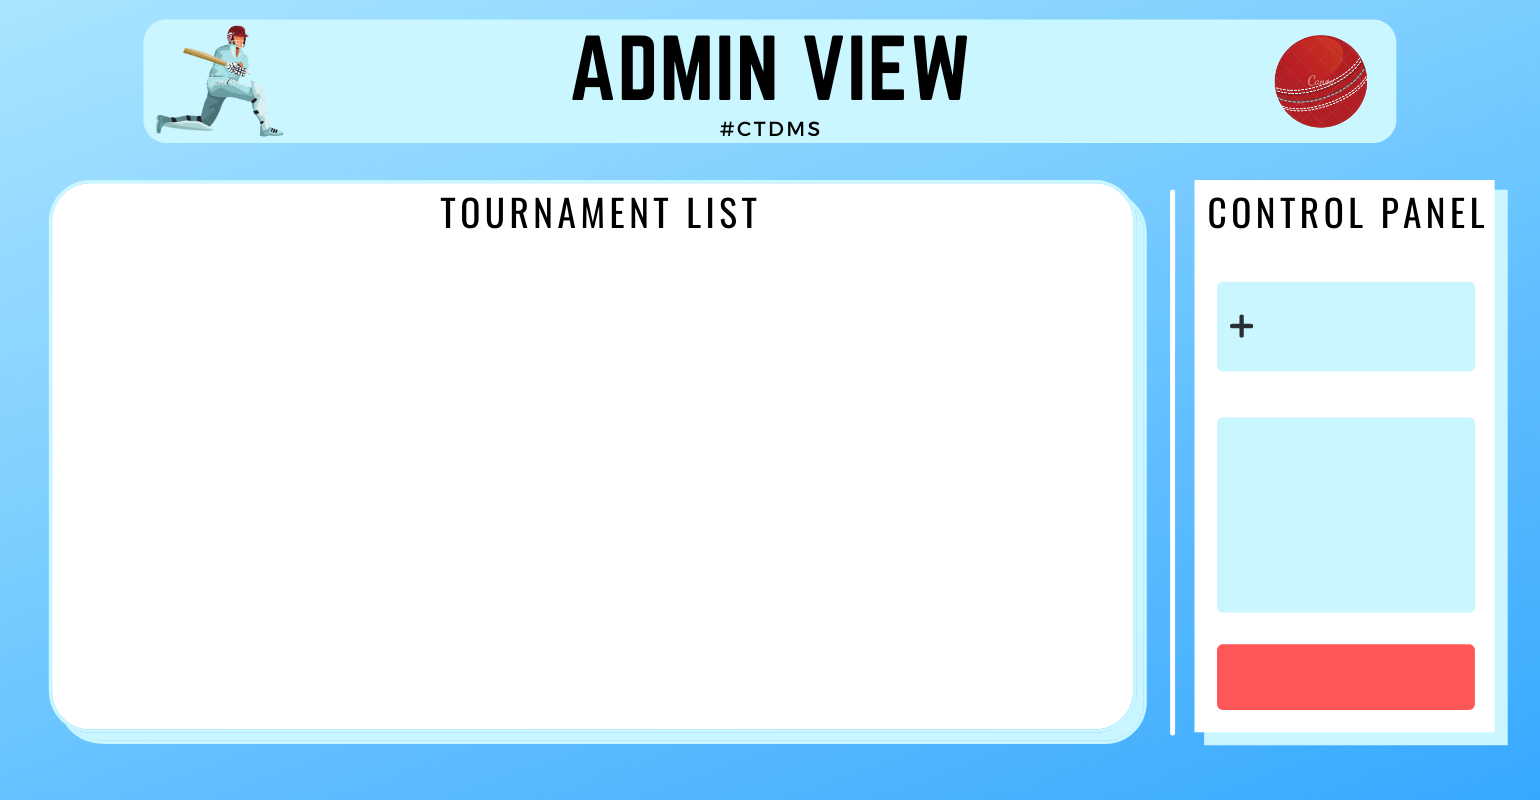
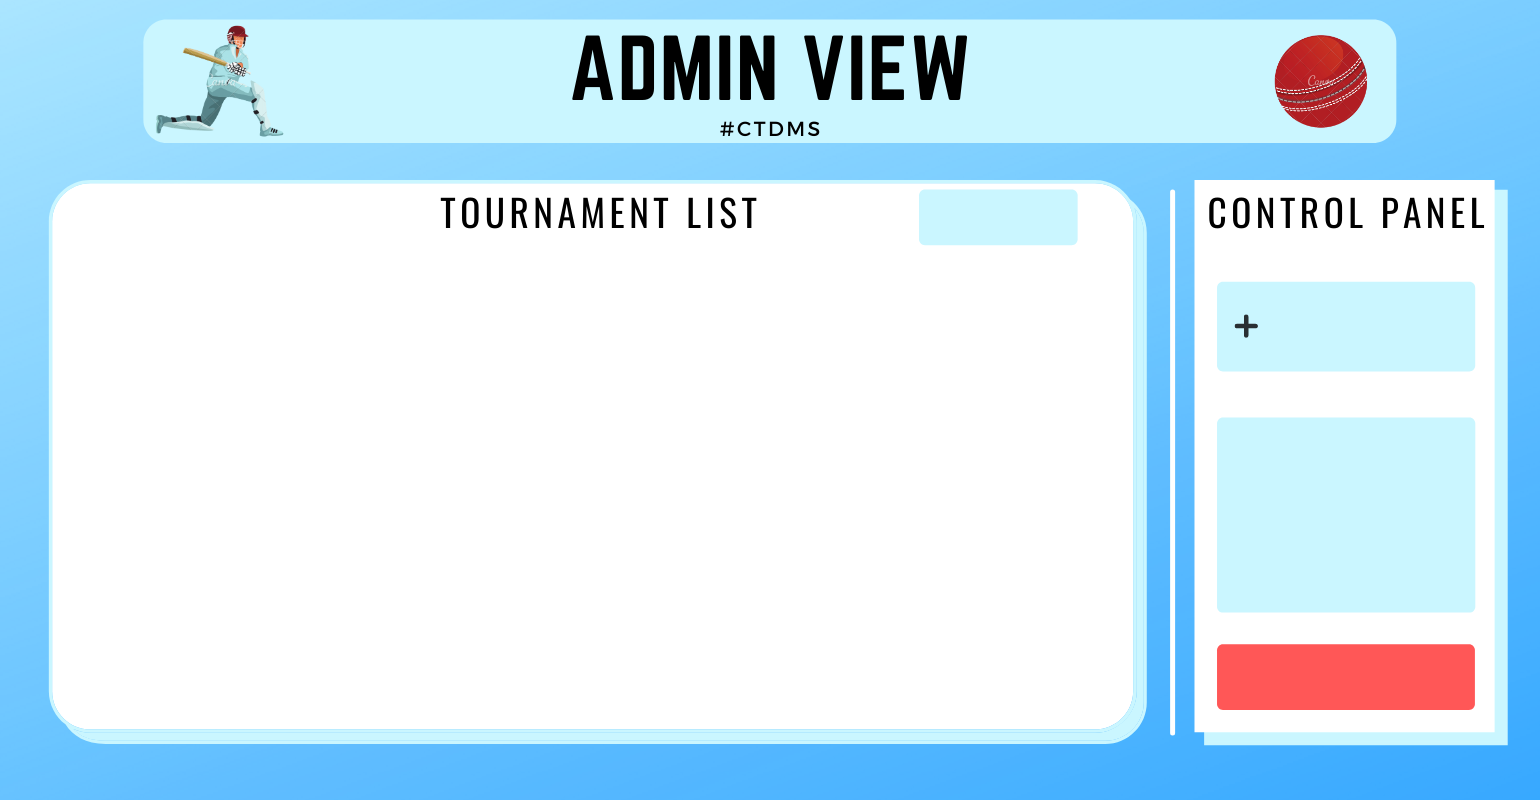
final Project

Changed region(s): [[0.5922, 0.2188, 0.7169, 0.3125]]

diff --git a/frontend/teamView.py b/frontend/teamView.py
@@ -8,13 +8,39 @@ initialize()
 from connect import *
 import sys
 
-
+count = 0
+playerList = []
 
 # def main5():
 #   r = Tk(className=" CCTDMS Team View")
 #   app=TeamView(r)
 
 class TeamView:
+    def refresh(self):
+        global count
+        global playerList
+        print(count,len(self.teamPlayer))
+        self.teamPlayer = getTeamPlayers(self.team_Id)
+        print(count,len(self.teamPlayer))
+        for i in range(len(self.teamPlayer)):
+            if self.teamPlayer[i][0] not in playerList:
+                row1 = ttk.Label(self.scrollable_frame1, width=120,
+                            background="#d9d9d9")
+                row1.pack(pady=3,ipady=10)
+                name = Label(row1, width=20, height=1, background="#d9d9d9",
+                            text=self.teamPlayer[i][1], font=('Yu Gothic', 14, 'bold'))
+                name.place(x=10, y=6)
+                type = Label(row1, width=11, height=1, background="#d9d9d9",
+                            text=self.teamPlayer[i][2], font=('Yu Gothic', 14, 'bold'))
+                type.place(x=320, y=6)
+                id = Label(row1, width=20, height=1, background="#d9d9d9", text=str(
+                    self.teamPlayer[i][0]), font=('Yu Gothic', 14, 'bold'))
+                id.place(x=445, y=6)
+                count += 1
+                print(self.teamPlayer[i][0])
+                playerList.append(self.teamPlayer[i][0])
+            print(playerList)
+
     def viewResults(self):
         self.r6 = Toplevel(self.master)
         self.app6 = ViewResult(self.r6, self.team_Id)
@@ -34,6 +60,9 @@ class TeamView:
         self.master.destroy()
 
     def __init__(self, master, teamId):
+        global count
+        global playerList
+        print(playerList)
         self.master = master
         self.width = self.master.winfo_screenwidth()
         self.height = self.master.winfo_screenheight()
@@ -108,9 +137,9 @@ class TeamView:
         self.teamMatches = getMatchesForTeam(int(self.team_Id))
 
         for i in range(len(self.teamMatches)):
-            row = Label(self.scrollable_frame, width=99,
-                        height=3, background="#d9d9d9")
-            row.pack(pady=3)
+            row = ttk.Label(self.scrollable_frame, width=199,
+                        background="#d9d9d9")
+            row.pack(pady=3,ipady=10)
             radio = Radiobutton(row, background="#d9d9d9")
             radio.place(x=15, y=10)
 
@@ -131,6 +160,7 @@ class TeamView:
             venue = Label(row, width=20, height=1, background="#d9d9d9", text=self.teamMatches[i][4],
                           font=('Yu Gothic', 14, 'bold'))
             venue.place(x=440, y=6)
+            count  += 1
 
         self.container.place(x=46, y=300)
         self.canvas2.pack(side="left", fill="both", expand=True)
@@ -192,9 +222,9 @@ class TeamView:
         self.teamPlayer = getTeamPlayers(self.team_Id)
 
         for i in range(len(self.teamPlayer)):
-            row1 = Label(self.scrollable_frame1, width=90,
-                         height=3, background="#d9d9d9")
-            row1.pack(pady=3)
+            row1 = ttk.Label(self.scrollable_frame1, width=120,
+                         background="#d9d9d9")
+            row1.pack(pady=3,ipady=10)
             name = Label(row1, width=20, height=1, background="#d9d9d9",
                          text=self.teamPlayer[i][1], font=('Yu Gothic', 14, 'bold'))
             name.place(x=10, y=6)
@@ -204,6 +234,9 @@ class TeamView:
             id = Label(row1, width=20, height=1, background="#d9d9d9", text=str(
                 self.teamPlayer[i][0]), font=('Yu Gothic', 14, 'bold'))
             id.place(x=445, y=6)
+            playerList.append(self.teamPlayer[i][0])
+
+        print(playerList)
 
         self.container1.place(x=824, y=300)
         self.canvas1.pack(side="left", fill="both", expand=True)
@@ -227,13 +260,16 @@ class TeamView:
                                   foreground="white", command=self.ptsTable, wraplength=100)
         self.ptsTableBtn.place(x=1405, y=720)
 
+        self.refBtn = Button(self.master, width=7, background='#f4a290', relief='flat', text='Refresh', font=('Yu Gothic', 17, 'bold'),
+                                  foreground="white", command=self.refresh)
+        self.refBtn.place(x=1320,y=183)
+
         self.label1 = LabelFrame(
             self.master, text="Enter Tournament Id", background="#f4a290", foreground="white")
         self.label1.place(x=1220, y=720, width=180, height=60)
         self.idEntry = Entry(self.label1, font=(
             'Yu Gothic', 14, 'bold'), textvariable=self.tournaId)
         self.idEntry.place(x=5, y=0, width=160, height=40)
-
         self.master.mainloop()
 
 # main5()

diff --git a/frontend/admin.py b/frontend/admin.py
@@ -7,12 +7,32 @@ initialize()
 from connect import *
 import sys
 
+tournamentsList = []
+
 # def main1():
 #   r = Tk(className=" CTDMS Admin View")
 #   app=adminWindow(r)
 
 
 class AdminWindow:
+    def refresh(self):
+        global tournamentsList
+        self.loadTournament = getTournaments()
+        for i in range(len(self.loadTournament)):
+            if self.loadTournament[i][0] not in tournamentsList:
+                if i%2 == 0:
+                    self.tournaments.insert(parent='', index='end', iid=i, values=(self.loadTournament[i][0], self.loadTournament[i][1],
+                                                                            self.loadTournament[i][2], self.loadTournament[i][3], 
+                                                                            self.loadTournament[i][4], self.loadTournament[i][5],
+                                                                            self.loadTournament[i][6]),tags=('evenrow',))
+                else:
+                    self.tournaments.insert(parent='', index='end', iid=i, values=(self.loadTournament[i][0], self.loadTournament[i][1],
+                                                                            self.loadTournament[i][2], self.loadTournament[i][3], 
+                                                                            self.loadTournament[i][4], self.loadTournament[i][5],
+                                                                            self.loadTournament[i][6]),tags=('oddrow',))
+                tournamentsList.append(int(self.loadTournament[i][0]))
+            print(tournamentsList)
+
     def createTour(self):
         self.r3 = Toplevel(self.master)
         self.app = CreateTournament(self.r3, self.adminId)
@@ -29,6 +49,7 @@ class AdminWindow:
         self.master.destroy()
 
     def __init__(self, master, adminId):
+        global tournamentsList
         self.master = master
         self.width = self.master.winfo_screenwidth()
         self.height = self.master.winfo_screenheight()
@@ -89,7 +110,6 @@ class AdminWindow:
         self.tournaments.tag_configure('evenrow',background='#efefef')
         self.tournaments.tag_configure('oddrow',background='#d9d9d9')
 
-
         self.loadTournament = getTournaments()
         for i in range(len(self.loadTournament)):
             if i%2 == 0:
@@ -102,11 +122,17 @@ class AdminWindow:
                                                                            self.loadTournament[i][2], self.loadTournament[i][3], 
                                                                            self.loadTournament[i][4], self.loadTournament[i][5],
                                                                            self.loadTournament[i][6]),tags=('oddrow',))
+            tournamentsList.append(int(self.loadTournament[i][0]))
+        print(tournamentsList)
         self.tournaments.place(x=55, y=250)
 
-        self.newTournamentBtn = Button(self.master, width=17, background='#caf6ff', relief='flat', text='Create New Tournament',
+        self.refBtn = Button(self.master, width=7, background='#caf6ff', relief='flat', text='Refresh', font=('Yu Gothic', 15, 'bold'),
+                             command=self.refresh)
+        self.refBtn.place(x=950,y=195)
+
+        self.newTournamentBtn = Button(self.master, width=15, background='#caf6ff', relief='flat', text='Create New Tournament',
                                        font=('Yu Gothic', 14, 'bold'), wraplength=150, command=self.createTour)
-        self.newTournamentBtn.place(x=1250, y=295)
+        self.newTournamentBtn.place(x=1260, y=295)
 
         self.label1 = LabelFrame(
             self.master, text="Enter Tournament Id", background="#caf6ff")
@@ -114,6 +140,7 @@ class AdminWindow:
         self.idEntry = Entry(self.label1, font=(
             'Yu Gothic', 14, 'bold'), textvariable=self.tourId)
         self.idEntry.place(x=10, y=0, width=200, height=40)
+
         self.viewTournamentBtn = Button(self.master, width=18, background='#caf6ff', relief='groove', text='View Tournament Matches',
                                         font=('Yu Gothic', 14, 'bold'), wraplength=200, command=self.viewTour)
         self.viewTournamentBtn.place(x=1225, y=505)
@@ -121,7 +148,6 @@ class AdminWindow:
         self.adminLogoutBtn = Button(self.master, width=18, background='#ff5757', relief='flat', text='Logout',
                                      font=('Yu Gothic', 14, 'bold'), command=self.logout)
         self.adminLogoutBtn.place(x=1225, y=655)
-
         self.master.mainloop()
 
 # main1()

diff --git a/frontend/tournamentView.py b/frontend/tournamentView.py
@@ -6,6 +6,7 @@ from tkinter import ttk
 from initial import initialize
 initialize()
 from connect import getMatchesForAdmin
+from connect import resultAdded
 
 
 # def maintournamentView():
@@ -106,12 +107,17 @@ class TourView:
         self.t_id.place(x=1363, y=182, width=80)
 
         for i in range(len(self.matchList)):
-            self.row = Label(self.scrollable_frame, width=201,
-                             height=3, background="#d9d9d9")
-            self.row.pack(pady=3)
-            self.edtBtn = Button(self.row, width=10, background='#caf6ff',
-                                 relief='groove', text='Result', font=('Yu Gothic', 10, 'bold'), command=lambda id=[self.matchList[i][1], self.teamname[int(self.matchList[i][5])], self.teamname[int(self.matchList[i][6])]]: self.fillResult(id))
-            self.edtBtn.place(x=1300, y=7)
+            self.row = ttk.Label(self.scrollable_frame, width=300,
+                             background="#d9d9d9")
+            self.row.pack(pady=3,ipady=10)
+            if resultAdded(int(self.matchList[i][1])):
+                self.edtBtn = Button(self.row, width=10, background='#caf6ff',state=DISABLED,
+                                    relief='groove', text='Result', font=('Yu Gothic', 10, 'bold'), command=lambda id=[self.matchList[i][1], self.teamname[int(self.matchList[i][5])], self.teamname[int(self.matchList[i][6])]]: self.fillResult(id))
+                self.edtBtn.place(x=1300, y=7)
+            else:
+                self.edtBtn = Button(self.row, width=10, background='#caf6ff',
+                                    relief='groove', text='Result', font=('Yu Gothic', 10, 'bold'), command=lambda id=[self.matchList[i][1], self.teamname[int(self.matchList[i][5])], self.teamname[int(self.matchList[i][6])]]: self.fillResult(id))
+                self.edtBtn.place(x=1300, y=7)
             self.m_id = Label(self.row, width=7, height=1, background="#d9d9d9",
                               text=self.matchList[i][1], font=('Yu Gothic', 14, 'bold'))
             self.m_id.place(x=4, y=5)

diff --git a/backend/connect.py b/backend/connect.py
@@ -211,3 +211,11 @@ def matchResult(team_id):
         temp.append(r[12])
         refined.append(temp)
     return refined
+
+def resultAdded(match_id):
+    query = "SELECT COUNT(*) FROM match_summary WHERE m_id = {}".format(match_id)
+    result = Database.runQuery(query)
+    print(result[0][0])
+    if(result[0][0]==1):
+        return True
+    return False
